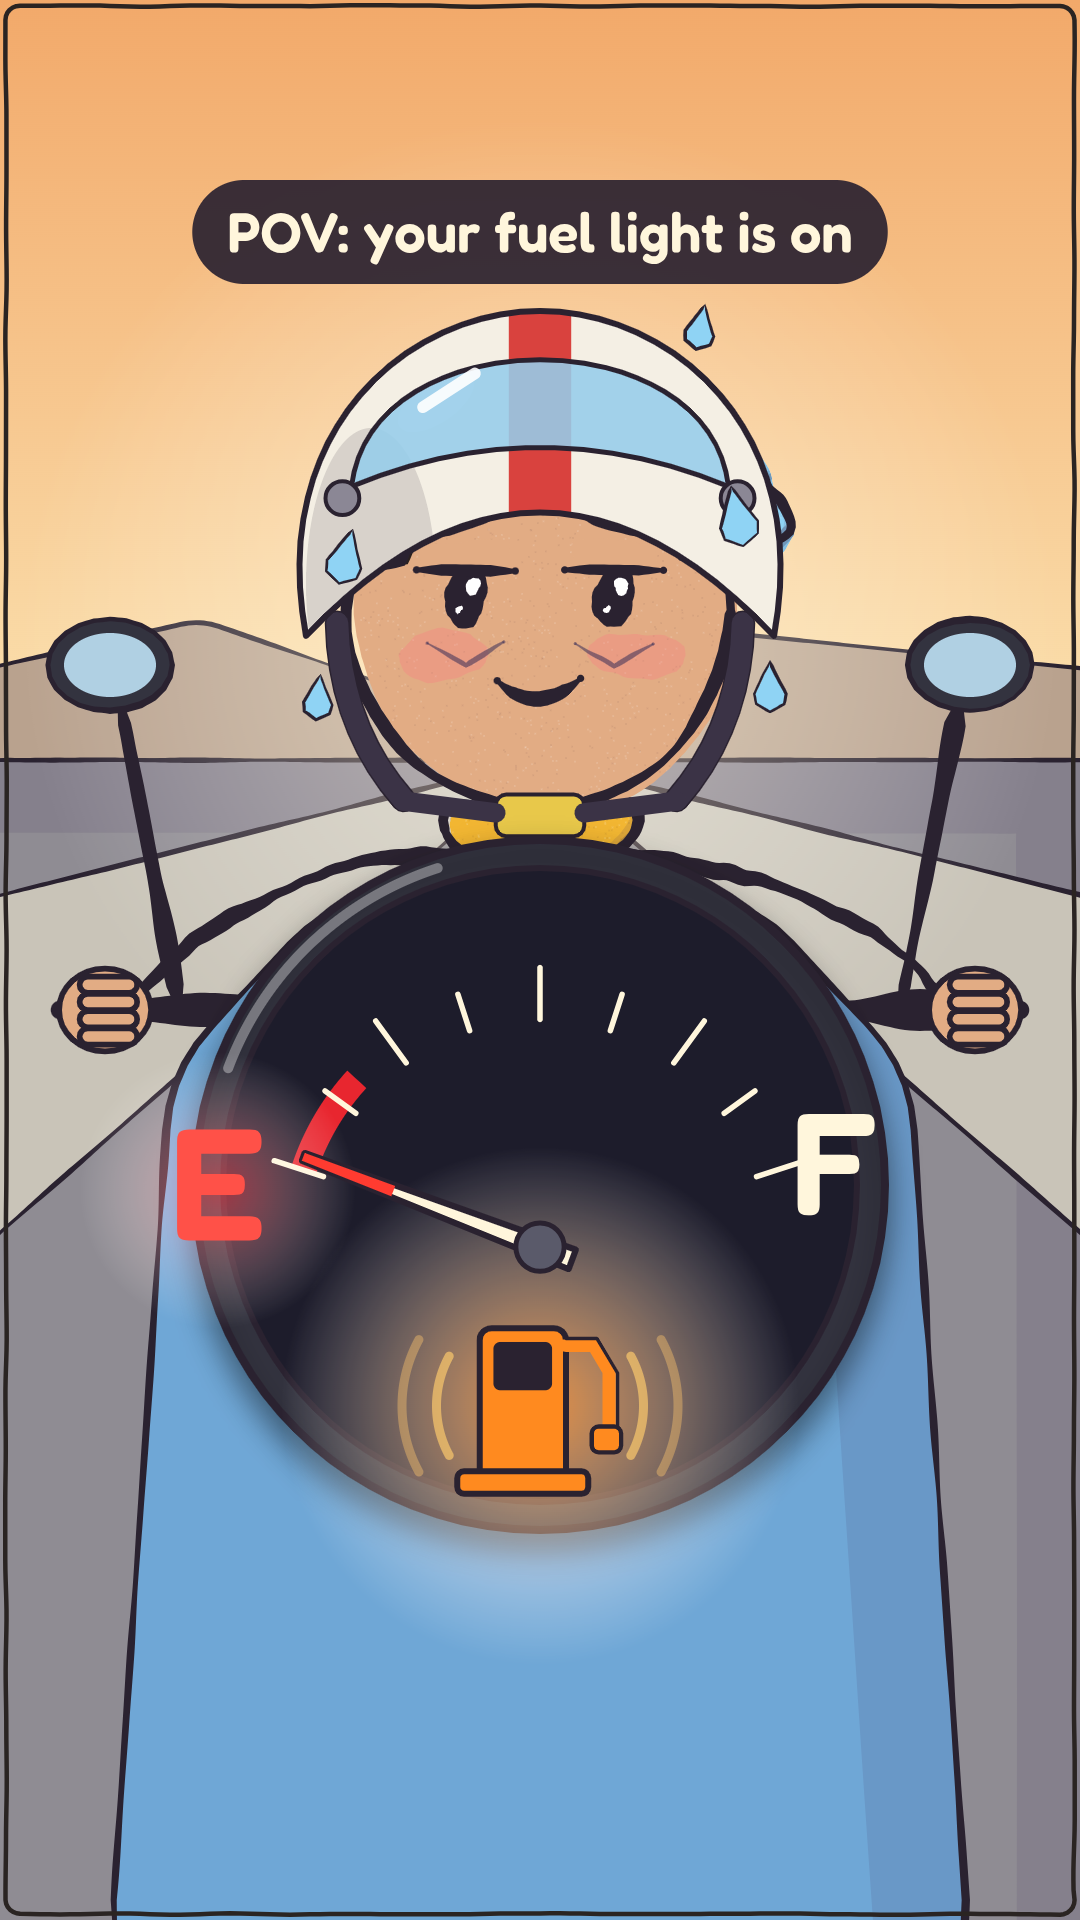
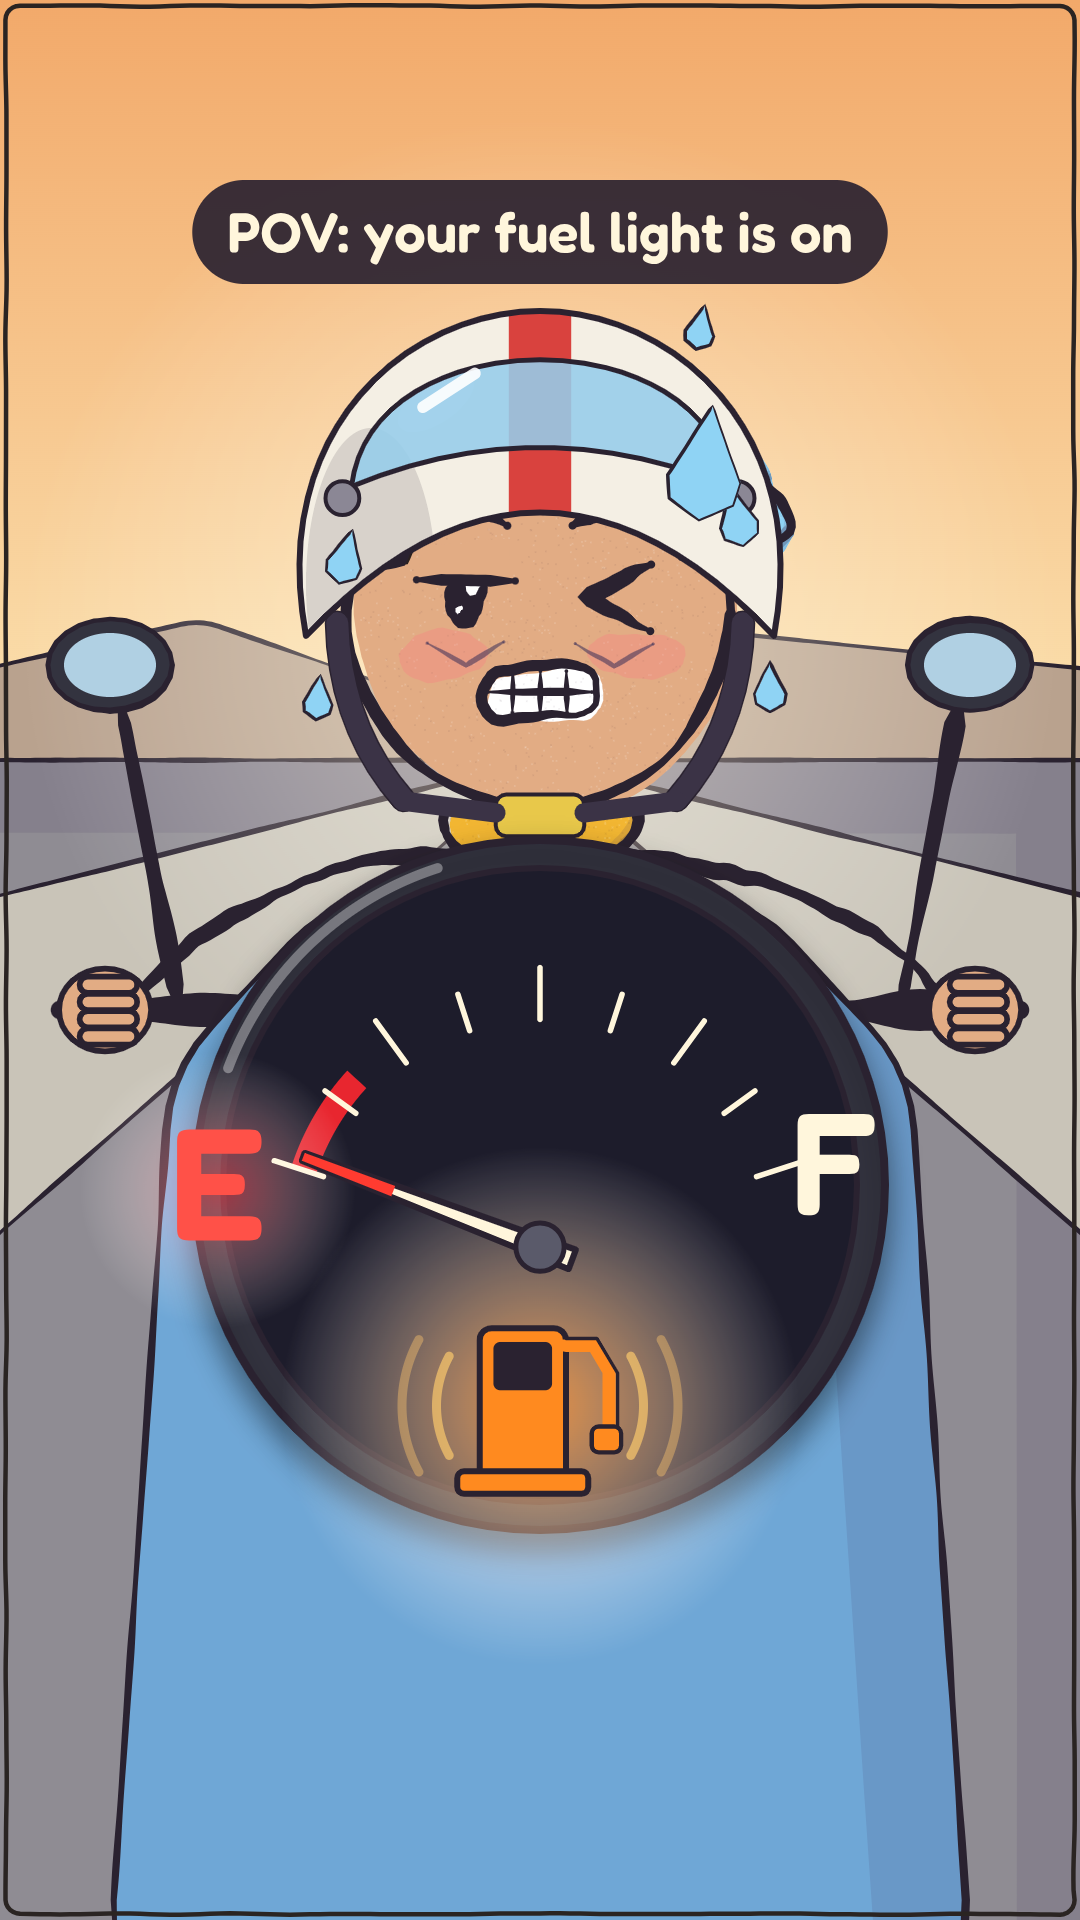
Tập 12 On Empty: key stills round 3

Changed region(s): [[0.4278, 0.2812, 0.6111, 0.375], [0.6111, 0.2188, 0.7028, 0.2812], [0.3667, 0.2812, 0.4889, 0.3125]]

diff --git a/episodes/21-next/film/stills.js b/episodes/21-next/film/stills.js
@@ -135,8 +135,8 @@ function scooter(t, x, y, k, o = {}) {
   ctx.restore();
   if (o.seat) {   // under-seat compartment: dark mouth, tank neck full to the brim
     p.part(roundPoly([[-10, -330], [330, -332], [320, -352], [-6, -352]], 4), DARK, { shade: false, lw: 5 });
-    p.part(ellipsePts(120, -350, 70, 15, 24), '#f2b632', { shade: false, lw: 5 });
-    p.part(ellipsePts(120, -354, 54, 9, 24), '#ffd980', { shade: false, lw: 3 });
+    p.part(ellipsePts(120, -350, 100, 24, 24), '#f2b632', { shade: false, lw: 5 });
+    p.part(ellipsePts(120, -354, 80, 14, 24), '#ffd980', { shade: false, lw: 3 });
   }
   // floorboard + leg shield + fender
   p.part(roundPoly([[-260, -150], [-20, -150], [-20, -215], [-260, -215]], 10), BODY, { shade: 0.14, lw: 6 });
@@ -156,7 +156,8 @@ function scooter(t, x, y, k, o = {}) {
     ctx.fillStyle = '#e8262f'; ctx.font = '600 22px Fredoka'; ctx.textAlign = 'center'; ctx.fillText('F', 30, -26 + 0); ctx.restore();
   }
   // front basket with Snuggles
-  const bx0 = -560, bx1 = -380, by0 = -345, by1 = -215;
+  const bx0 = -500, bx1 = -320, by0 = -345, by1 = -215;
+  p.line([[bx1 - 40, by1 - 8], [-285, -300]], 12, '#6b6f7a'); p.line([[bx1 - 6, by0 + 50], [-292, -400]], 10, '#6b6f7a');   // bracket clamps the basket to the steering column
   if (o.snug) {
     drawCharacter(ctx, 'snuggles', (bx0 + bx1) / 2 - 4, by1 + 8, 5.6, o.snug, { frame: boilFrame(t) });
   }
@@ -178,7 +179,7 @@ function pump(t, x, y, w, h, digits, o = {}) {
   const dy = y + 0.17 * h, dh = 0.17 * h;
   p.part(roundPoly([[x + 26, dy], [x + w - 26, dy], [x + w - 26, dy + dh], [x + 26, dy + dh]], 10), '#1b2a22', { shade: false, lw: 6 });
   glowBlob(x + w / 2, dy + dh / 2, w * 0.7, 'rgba(120,255,150,0.28)');
-  ctx.save(); ctx.font = `600 ${Math.min(dh * 0.86, (w - 80) / 2.6)}px Fredoka`; ctx.textAlign = 'right'; ctx.textBaseline = 'middle'; ctx.fillStyle = 'rgba(125,255,154,0.25)'; ctx.fillText('8.88', x + w - 44, dy + dh * 0.52);
+  ctx.save(); ctx.font = `600 ${Math.min(dh * 0.86, (w - 80) / 2.6)}px Fredoka`; ctx.textAlign = 'right'; ctx.textBaseline = 'middle'; ctx.fillStyle = 'rgba(125,255,154,0.10)'; ctx.fillText('8.88', x + w - 44, dy + dh * 0.52);
   ctx.shadowColor = '#7dff9a'; ctx.shadowBlur = 24; ctx.fillStyle = '#9bffb4'; ctx.fillText(digits, x + w - 44, dy + dh * 0.52); ctx.restore();
   // lower panel + buttons
   p.part(roundPoly([[x + 26, dy + dh + 40], [x + w - 26, dy + dh + 40], [x + w - 26, dy + dh + 40 + 0.12 * h], [x + 26, dy + dh + 40 + 0.12 * h]], 8), '#c9ced6', { shade: 0.1, lw: 5 });
@@ -207,11 +208,14 @@ function forecourt(t, hz) {
 // generic attendant: nameless adult in a plain cap and plain uniform. (x, y) = feet, s = unit
 function attendant(t, x, y, s, o = {}) {
   const p = spen(t, 55, 5), SK = '#a8714a', UNI = '#7e8794', CAP = '#3f5a78';
+  const armsOnly = o.part === 'arms';
+  if (!armsOnly) {
   ctx.fillStyle = 'rgba(0,0,0,0.16)'; ctx.beginPath(); ctx.ellipse(x, y + 4, 22 * s, 4 * s, 0, 0, 7); ctx.fill();
   p.part(roundPoly([[x - 10 * s, y], [x - 3 * s, y], [x - 4 * s, y - 40 * s], [x - 12 * s, y - 40 * s]], 2), '#2f3340', { shade: 0.1, lw: 5 });
   p.part(roundPoly([[x + 3 * s, y], [x + 10 * s, y], [x + 12 * s, y - 40 * s], [x + 4 * s, y - 40 * s]], 2), '#2f3340', { shade: 0.1, lw: 5 });
   p.part(roundPoly([[x - 17 * s, y - 38 * s], [x + 17 * s, y - 38 * s], [x + 15 * s, y - 80 * s], [x - 15 * s, y - 80 * s]], 6), UNI, { shade: 0.15, lw: 6 });   // plain shirt
   p.part(roundPoly([[x - 15 * s, y - 80 * s], [x - 2 * s, y - 80 * s], [x, y - 73 * s], [x + 2 * s, y - 80 * s], [x + 15 * s, y - 80 * s], [x + 6 * s, y - 84 * s], [x - 6 * s, y - 84 * s]], 1.5), '#a3acb8', { shade: false, lw: 4 });   // collar
+  }
   const hnd = o.hand || [x + 30 * s, y - 50 * s];
   if (o.part === 'arms') {
   p.line([[x - 14 * s, y - 76 * s], [x - 20 * s, y - 62 * s], [hnd[0] - 2 * s, hnd[1]]], 15, UNI);
@@ -243,11 +247,11 @@ function still1(t) {
   glowBlob(540, 640, 520, 'rgba(255,230,170,0.5)');
   // Steve, close-up, helmet on
   const s = 13, X = 540, hc0 = 610, Y = hc0 + 80 * s, shY = Y - 60 * s;
-  drawCharacter(ctx, 'steve', X, Y, s, { eyes: 'dot', lid: 0.15, brow: 'worried', mouth: 'smile', fx: ['sweat'], look: 0, hair: 0, bags: 1,
+  drawCharacter(ctx, 'steve', X, Y, s, { eyes: 'dot', eyeR: 'squint', lid: 0.3, brow: 'raised', mouth: 'teeth', fx: ['sweat'], look: 0, hair: 0, bags: 1,
     armL: armTo(X, shY, s, 118, 1010, [0, 5]), armR: armTo(X, shY, s, 962, 1010, [0, 5]) }, { frame: boilFrame(t) });
   const hc = headOf(X, Y, s);
   helmet([hc[0], hc[1]], s);
-  { const dp = spen(t, 31); drop(dp, 345, 560, 22, 0.25); drop(dp, 738, 520, 24, -0.2); drop(dp, 318, 700, 18, 0.1); drop(dp, 770, 690, 20, 0); drop(dp, 700, 330, 18, 0.2); }
+  { const dp = spen(t, 31); drop(dp, 345, 560, 22, 0.25); drop(dp, 738, 520, 24, -0.2); drop(dp, 318, 700, 18, 0.1); drop(dp, 770, 690, 20, 0); drop(dp, 700, 330, 18, 0.2); drop(dp, 705, 470, 46, 0.12); }
   // handlebar, mirrors, grips
   const hp = spen(t, 8, 6);
   for (const sx of [-1, 1]) { hp.line([[540 + sx * 360, 1010], [540 + sx * 420, 700]], 16, '#2a2230'); hp.part(ellipsePts(540 + sx * 430, 665, 62, 46, 24), '#33333f', { shade: false, lw: 6 }); ctx.fillStyle = 'rgba(190,225,245,0.9)'; ctx.beginPath(); ctx.ellipse(540 + sx * 430, 665, 46, 32, 0, 0, 7); ctx.fill(); }
@@ -259,51 +263,55 @@ function still1(t) {
   title();
 }
 
-// ---------- STILL 2 · CLIMAX "I MADE IT!" ----------
+// ---------- STILL 2 · CLIMAX "I MADE IT!" (hug) ----------
 function still2(t) {
   SEED = 9;
-  const hz = 1380;
-  // camera roll for a diagonal, dynamic feel (content only; title + panel stay level)
-  ctx.save(); ctx.translate(540, 960); ctx.rotate(-0.06); ctx.scale(1.14, 1.14); ctx.translate(-540, -960);
+  const hz = 1460;
+  // low camera + roll: diagonal, heroic (content only; title + panel stay level)
+  ctx.save(); ctx.translate(540, 960); ctx.rotate(-0.08); ctx.scale(1.14, 1.14); ctx.translate(-540, -960);
   forecourt(t, hz);
-  // sunburst of triumph behind Steve's head
-  ctx.save(); ctx.translate(560, 760); for (let i = 0; i < 18; i++) { ctx.rotate(Math.PI * 2 / 18); ctx.fillStyle = 'rgba(255,245,200,0.34)'; ctx.beginPath(); ctx.moveTo(0, 0); ctx.lineTo(1000, -60); ctx.lineTo(1000, 60); ctx.closePath(); ctx.fill(); } ctx.restore();
-  // scooter, Snuggles in the front basket, left side, facing left; Steve's legs overlap its rear
-  scooter(t, 600, 1595, 0.8, { snug: { eyes: 'wide', lid: 0, mouth: 'line', look: 0.8, tail: 0.5, arm: 'down' } });
-  // pump (right)
-  pump(t, 690, 560, 360, 1040, '3.86');
-  // Steve: collapsed across the pump, hugging it, head big
-  const s = 11.5, th = 0.42, P = placeSteve(565, 850, s, th);
-  drawCharacter(ctx, 'steve', P.X, P.Y, s, { eyes: 'happy', lid: 0, brow: 'raised', mouth: 'wide', fx: ['sweat'], look: 0, hair: 0, bags: 1, lean: th * 180 / Math.PI, tilt: 10,
-    armL: handLocal(P, [975, 1110]), armR: handLocal(P, [790, 1290]) }, { frame: boilFrame(t) });
+  ctx.save(); ctx.translate(690, 1040); for (let i = 0; i < 18; i++) { ctx.rotate(Math.PI * 2 / 18); ctx.fillStyle = 'rgba(255,245,200,0.34)'; ctx.beginPath(); ctx.moveTo(0, 0); ctx.lineTo(1100, -60); ctx.lineTo(1100, 60); ctx.closePath(); ctx.fill(); } ctx.restore();
+  // scooter parked behind-left of him, facing left, Snuggles clamped in the front basket
+  scooter(t, 470, 1385, 0.6, { snug: { eyes: 'wide', lid: 0, mouth: 'line', look: 0.8, tail: 0.5, arm: 'down' } });
+  // pump (right): display well above his head
+  pump(t, 600, 430, 360, 1010, '3.86');
+  // Steve: slumped on one knee against the pump, cheek on it, both arms wrapped round it
+  const s = 9.6, th = 0.85, GY = 1632, P = { X: 0, Y: GY, sc: s, th };
+  P.X = 660 - 42 * s * Math.sin(th); P.Y = GY - 0 * s;
+  const hy = GY - 38 * s - 42 * s * Math.cos(th); P.Y = GY;
+  ctx.fillStyle = 'rgba(0,0,0,0.16)'; ctx.beginPath(); ctx.ellipse(520, 1436, 320, 24, 0, 0, 7); ctx.fill();
+  const sh = bodyPt(P, 0, 60);
+  drawCharacter(ctx, 'steve', P.X, P.Y, s, { eyes: 'happy', lid: 0, brow: 'raised', mouth: 'grin', fx: ['sweat', 'tears_small'], look: 0, hair: 0, bags: 0, lean: th * 180 / Math.PI, tilt: 8, noShadow: true,
+    legPts: [[[0, 38], [17, 25], [-11, 22.6], [-15, 24.6]], [[0, 38], [23, 35], [21, 22.6], [28, 22.4]]],
+    armL: handLocal(P, [948, 1000]), armR: handLocal(P, [953, 1195]) }, { frame: boilFrame(t) });
   wetShirt(P);
   const hc = bodyPt(P, 0, 80);
-  helmet([hc[0] + 6, hc[1] - 4], s, th + 0.12);
-  fist(975, 1110, 0.5); fist(795, 1290, 0.5);
-  { const dp = spen(t, 31); drop(dp, 365, 720, 24, 0.3); drop(dp, 700, 600, 20, -0.3); drop(dp, 560, 1130, 22, 0); drop(dp, 310, 980, 20, 0.2); drop(dp, 450, 1320, 22, 0); }
+  helmet([hc[0] + 4, hc[1] - 2], s, th + 0.08);
+  fist(948, 1000, 0.55); fist(953, 1195, 0.55);
+  { const dp = spen(t, 31); drop(dp, 520, 800, 24, 0.3); drop(dp, 840, 800, 20, -0.3); drop(dp, 560, 1180, 22, 0); drop(dp, 400, 960, 20, 0.2); drop(dp, 840, 1280, 22, 0); }
   ctx.restore();
   title();
 }
 
-// ---------- STILL 3 · PUNCH "...Since TUESDAY?" ----------
+// ---------- STILL 3 · PUNCH "...Since TUESDAY?" (close-up) ----------
 function still3(t) {
   SEED = 12;
   const hz = 1330;
   forecourt(t, hz);
-  glowBlob(780, 760, 520, 'rgba(255,240,190,0.5)');
-  // pump far right, display "0.12"
-  pump(t, 770, 520, 320, 1000, '0.12');
-  // scooter behind Steve (front towards the left), seat open; the attendant stands behind it and lowers the seat
-  attendant(t, 850, 1470, 5.6, { dx: -6, part: 'body' });
-  scooter(t, 700, 1520, 0.7, { seat: 0.65, gauge: true });
-  attendant(t, 850, 1470, 5.6, { hand: [873, 1130], dx: -6, part: 'arms' });
-  // Steve close-up, dripping, flat, half lids, tiny head tilt
-  const s = 15.5, th = 0.06, P = placeSteve(320, 790, s, th);
-  drawCharacter(ctx, 'steve', P.X, P.Y, s, { expr: 'dead_inside', lid: 0.62, brow: undefined, mouth: 'line', fx: ['sweat'], look: 0, hair: 0, bags: 1, lean: th * 180 / Math.PI, tilt: -8, headDy: -1 }, { frame: boilFrame(t) });
+  glowBlob(800, 600, 520, 'rgba(255,240,190,0.5)');
+  // pump top-right, display "0.12"
+  pump(t, 700, 340, 340, 1000, '0.12');
+  // scooter mid-ground (right), seat open, tank full to the brim; the attendant behind it lowers the seat
+  attendant(t, 930, 1480, 6.4, { dx: -6, part: 'body' });
+  scooter(t, 800, 1480, 0.7, { seat: 0.65 });
+  attendant(t, 930, 1480, 6.4, { hand: [962, 1110], dx: -6, part: 'arms' });
+  // Steve chest-up, face ~50 % of the width, slightly left; torso runs off the bottom, no legs
+  const s = 18, th = 0.04, P = placeSteve(400, 1150, s, th);
+  drawCharacter(ctx, 'steve', P.X, P.Y, s, { expr: 'dead_inside', lid: 0.62, brow: undefined, mouth: 'line', fx: ['sweat'], look: 0, hair: 0, bags: 1, lean: th * 180 / Math.PI, tilt: -8, headDy: -1, noShadow: true, legPts: [] }, { frame: boilFrame(t) });
   wetShirt(P, 1);
   const hc = bodyPt(P, 0, 79);
   helmet([hc[0] - 2, hc[1] - 2], s, th - 0.14);
-  { const dp = spen(t, 31); drop(dp, 215, 720, 26, 0.2); drop(dp, 440, 960, 22, 0); drop(dp, 150, 1000, 20, 0.1); drop(dp, 520, 700, 20, 0); }
+  { const dp = spen(t, 31); drop(dp, 160, 960, 28, 0.2); drop(dp, 600, 1330, 24, 0); drop(dp, 130, 1250, 22, 0.1); drop(dp, 640, 900, 22, 0); }
   title();
 }
 const STILLS = [still1, still2, still3];

diff --git a/episodes/21-next/film/lib/cast_stick.js b/episodes/21-next/film/lib/cast_stick.js
@@ -103,7 +103,7 @@ function pivot(pen, [lx, ly], deg, fn) {
 export function drawCharacter(ctx, id, x, y, scale, pose = {}, opt = {}) {
   const C = CAST[id], p = resolvePose(C, pose), hand = (opt.style ?? 'hand') === 'hand';
   const pen = new VPen(ctx, x, y, scale, { lw: opt.lw ?? Math.max(2.4, scale * 0.95), hand, frame: opt.frame ?? 0, seed: opt.seed ?? id.length * 13 });
-  shadow(ctx, x, y, C.kind === 'cat' ? 18 : 12, scale);
+  if (!p.noShadow) shadow(ctx, x, y, C.kind === 'cat' ? 18 : 12, scale);
   if (p.sit && C.kind !== 'cat') { pen.sit = 15; pen.y += pen.sit * scale; }   // pose.sit: seated on something ~22 units high
   ({ steve: drawSteve, nana: drawNana, penny: drawPenny, ted: drawTed, cat: drawCat })[C.kind](pen, C, p, opt.frame ?? 0);
 }
@@ -111,7 +111,7 @@ export function drawCharacter(ctx, id, x, y, scale, pose = {}, opt = {}) {
 // Sweaty Steve — spiky black hair, a mustard hoodie on a stick body. The sweat drop is his whole personality.
 function drawSteve(pen, C, p) {
   const hy = 80 + (p.headDy || 0), r = 15;
-  legs(pen, 38);
+  if (p.legPts) p.legPts.forEach(l => pen.line(l, pen.lw)); else legs(pen, 38);   // legPts: custom leg polylines (local units), [] = none
   pivot(pen, [0, 38], p.lean || 0, () => {
     pen.part(roundPoly([[-6.5, 62], [6.5, 62], [8, 37], [-8, 37]], 2.5), C.color, { shade: 0.18 });
     pen.part(roundPoly([[-8, 65], [8, 65], [6, 61], [-6, 61]], 2), C.color, { shade: 0.3 });

diff --git a/episodes/21-next/film/lib/cast_v2.js b/episodes/21-next/film/lib/cast_v2.js
@@ -224,7 +224,7 @@ export function face(pen, p, F) {
       pen.dot(lx + rx * 0.32, ey + ry * 0.36, rx * 0.36, rx * 0.36, WHITE);
       pen.dot(lx - rx * 0.32, ey - ry * 0.42, rx * 0.16, rx * 0.16, WHITE);
     };
-    switch (p.eyes) {
+    switch ((sx > 0 && p.eyeR) || p.eyes) {
       case 'wide': case 'pinpoint': {
         pen.part(ellipsePts(ex, ey, rx * 1.75, ry * 1.4, 28), WHITE, { shade: 0.1, lw: lw * 0.75 });
         const pr = p.eyes === 'wide' ? rx * 0.62 : rx * 0.3, px = ex + look * 0.6;

diff --git a/episodes/21-next/STILLS-REVIEW.md b/episodes/21-next/STILLS-REVIEW.md
@@ -18,3 +18,12 @@ Checks: face width S1 ~ 36 %, S2 ~ 33 %, S3 ~ 45 %; gauge ~ 35 % of S1; nothing 
 - S2 hug is a lean plus wrap, not a full bear hug; the "3.86" display is clipped by the helmet ("3" half hidden).
 - S3 attendant is small (~ 8 % of width) and the seat-closing reads only from the open flap; the dash gauge on the scooter is tiny (F visible, not legible at phone size).
 - Steve's stick legs run into the bottom 20 % in S2/S3 (unimportant content only).
+
+## Round 3 (coordinator notes, one round only)
+| Still | Issue | Fix |
+|---|---|---|
+| S1 hook | Face read as a calm smile | Layout and dial kept. Clenched-teeth grin, right eye twitch-squinted (new `eyeR` pose key), left lid half, raised tense brows, one big sweat drop from the helmet |
+| S2 climax | Did not read as a hug; basket floated | Steve slumped on one knee (custom `legPts`), cheek on the pump, both arms wrapped round it, happy-squeezed eyes, open grin, joy tears, sweat patches. Roll -0.08 plus low horizon. Pump display moved up, clear of the helmet. Basket moved onto the steering column with a bracket, scooter parked behind-left |
+| S3 punch | Too wide and static, tiny attendant | Chest-up close-up, head about 50 % width, left of centre, torso runs off the bottom (no legs). Attendant about 22 % width behind the scooter, holding the open seat, brim enlarged. Dash gauge dropped. Fixed attendant arms pass redrawing his body over the scooter. Ghost "8.88" dimmed so 0.12 reads |
+
+Doubts left: S2 arms are long (a stretched stick hug); S1 grimace leans slightly angry, soften the brows if the owner wants less intensity.
